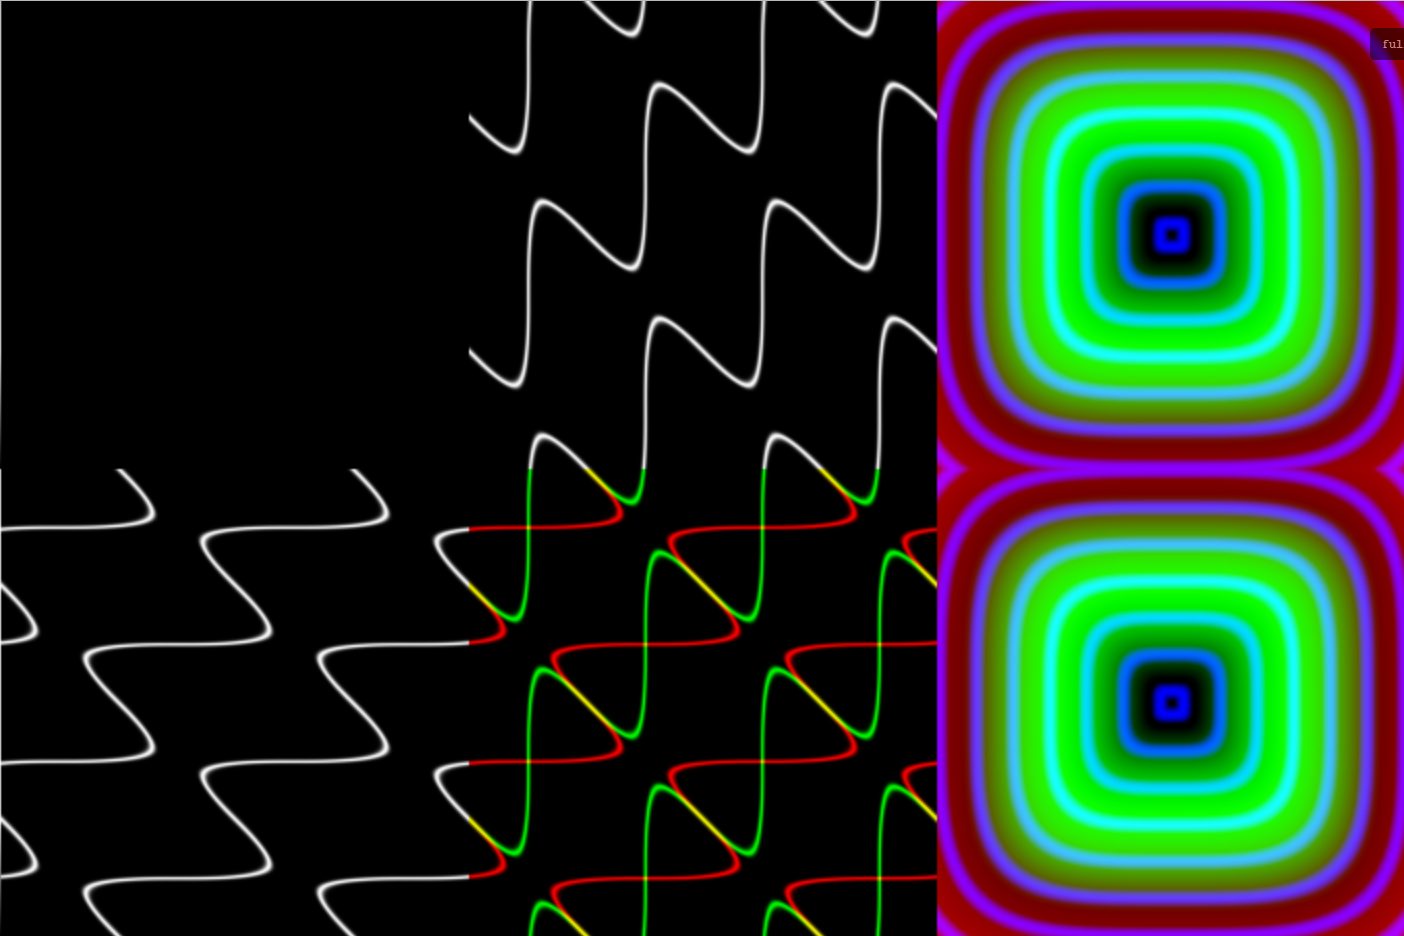
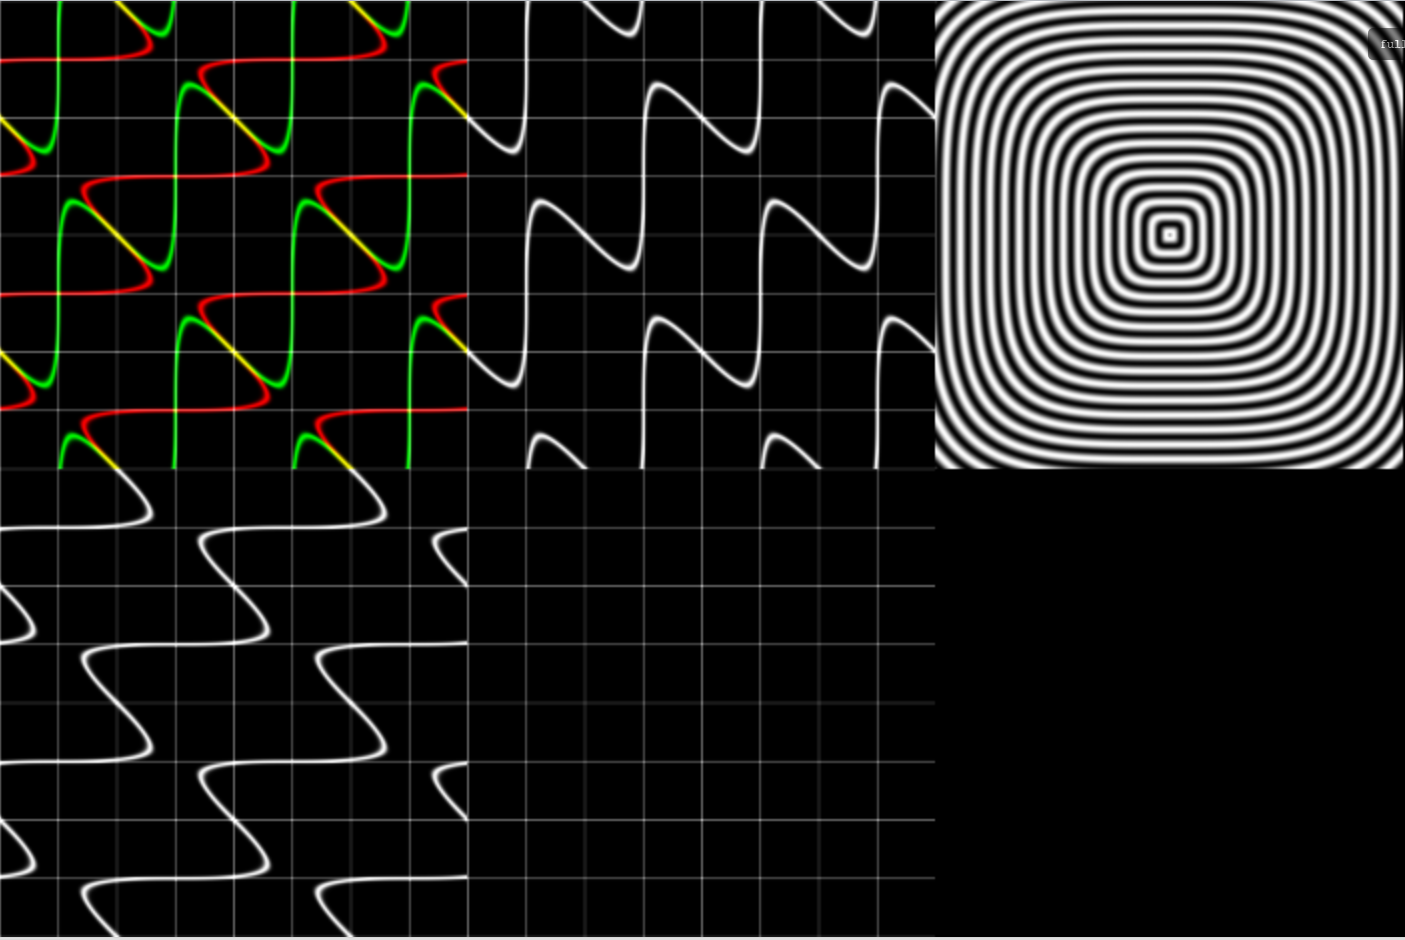
added some KT orbits

diff --git a/html/KT.js b/html/KT.js
@@ -20,8 +20,8 @@ var convex = function(p){
      return pnormalize(p, toCartesian(i/N * PI * 2, 1));
   });
 };
-var a = [-0.5, 1];
-var b = [1, 1];
+var a = toCartesian(1 * PI, 1);
+var b = toCartesian(0.25 * PI + 0.001, 1);
 
 var P = 4;
 var Q = 1/(1-1/P);

diff --git a/m/KT3.m b/m/KT3.m
@@ -1,0 +1,84 @@
+norm = @(v,p)power(sum(power(abs(v),p), 2), 1/p);
+normal = @(v,p)power(abs(v),p-1).*sign(v);
+
+normalize = @(v,p)bsxfun(@rdivide, v, norm(v, p));
+dual = @(p)1/(1 - (1/p));
+tocar = @(alpha)[cos(alpha) sin(alpha)];
+
+wedge = @(u,v)u(:,2).*v(:,1)-u(:,1).*v(:,2);
+inner = @(u,v)u(:,1).*v(:,1)+u(:,2).*v(:,2);
+directed_angle = @(u,v)atan2(wedge(u, v), inner(u,v));
+
+lambda = 5/6;
+
+P = 4;
+Q = 1 / (1 - 1/P);
+
+N = 1500;
+
+al = [0.1 0.1+pi 0.1 5:100]';
+
+index_compacter = @(I)I;
+index_compacter(N)
+
+a = zeros(size(al, 1), index_compacter(N));
+b = zeros(size(al, 1), index_compacter(N));
+
+F = 2;
+V = zeros(size(al, 1)-F, 1);
+
+offset = zeros(size(al, 1)-F, 1);
+
+for ii = 2:N
+
+
+	v = normalize(tocar(al(F-1:end)), P);
+	n1 = normal(v, P);
+	n2 = -normal(normalize(diff(v), P), P); 
+
+	dn2 = diff(n2);
+
+	offset0 = offset;
+	offset = directed_angle(dn2, n1(2:end-1, :));
+
+	V = -cumsum(sign(offset) * exp(-ii/N));
+	
+	i1 = index_compacter(ii);
+
+	a(1:F, i1) = al(1:F);
+	a((F+1):end, i1) = al((F+1):end) + V;
+
+	b(1:end-1, i1) = directed_angle(n1(1:end-1, :), diff(v));
+	b(end, i1) = nan;
+
+	al = a(:,i1);
+	bl = b(:,i1);
+	
+	if (offset' * offset < 0.000001)
+		disp(ii);
+		break;
+	end
+	% J = find(abs(offset) >= 0.00001, 1, 'first');
+	% if isempty(J)
+	% 	break;
+	% end
+	
+	% F = F + J - 1;
+	% if J > 1
+	% 	disp([N ii F]);
+	% end
+end
+
+figure;
+hold on;
+U = normalize(tocar((0:0.1:7)'), P);
+plot(U(:, 1), U(:, 2), 'k');
+U = normalize(tocar((0:0.1:7)'), P)*2;
+plot(U(:, 1), U(:, 2), 'k');
+
+U2 = normalize(tocar(al), P);
+plot(U2(:, 1), U2(:, 2), 'Color', [1, 0, 0]);
+hold off;
+
+figure;
+plot(mod(al, 2*pi), mod(bl, 2*pi));

diff --git a/m/KT4.m b/m/KT4.m
@@ -1,0 +1,67 @@
+function a = KT4
+	norm = @(v,p)power(sum(power(abs(v),p), 2), 1/p);
+	normal = @(v,p)power(abs(v),p-1).*sign(v);
+
+	normalize = @(v,p)bsxfun(@rdivide, v, norm(v, p));
+	dual = @(p)1/(1 - (1/p));
+	tocar = @(alpha)[cos(alpha) sin(alpha)];
+
+	wedge = @(u,v)u(:,2).*v(:,1)-u(:,1).*v(:,2);
+	inner = @(u,v)u(:,1).*v(:,1)+u(:,2).*v(:,2);
+	directed_angle = @(u,v)atan2(wedge(u, v), inner(u,v));
+
+	lambda = 5/6;
+
+	P = 4;
+	Q = 1 / (1 - 1/P);
+
+	N = 50;
+
+	a = [0:1000]';
+	L = length(a);
+	b = zeros(L, 1);
+
+	log = [a zeros(L, N)];
+	index_compacter = @(I)I;
+	index_compacter(N)
+
+	F = 2;
+	V = zeros(L-F, 1);
+
+	offset = zeros(L-F, 1);
+
+
+
+	for jj = F+1:L
+        v1 = tocar(a(jj-2));
+        v2 = tocar(a(jj-1));
+
+		u1 = -normal(normalize(v2 - v1, P), P);
+
+
+		d1 = normal(v2, P);
+		u2 = fsolve(@(X)[directed_angle(X - u1, d1)*1000, norm(X, Q) - 1], -u1*2);
+
+		d2 = normal(u2, Q);
+		v3 = fsolve(@(X)[directed_angle(X - v2, -d2)*1000, norm(X, P) - 1], -v2*2);
+		
+		a(jj) = atan2(v3(:,2), v3(:,1));
+		b(jj) = directed_angle(d1, v3 - v2);
+	end
+
+	figure;
+	hold on;
+	U = normalize(tocar((0:0.1:7)'), P);
+	plot(U(:, 1), U(:, 2), 'k');
+	U = normalize(tocar((0:0.1:7)'), P)*2;
+	plot(U(:, 1), U(:, 2), 'k');
+
+	U2 = normalize(tocar(a), P);
+	plot(U2(:, 1), U2(:, 2), 'Color', [1, 0, 0]);
+	hold off;
+
+	figure;
+	plot(mod(a, 2*pi), mod(b, 2*pi), 'o');
+
+	figure;
+	plot(a, 'o');
